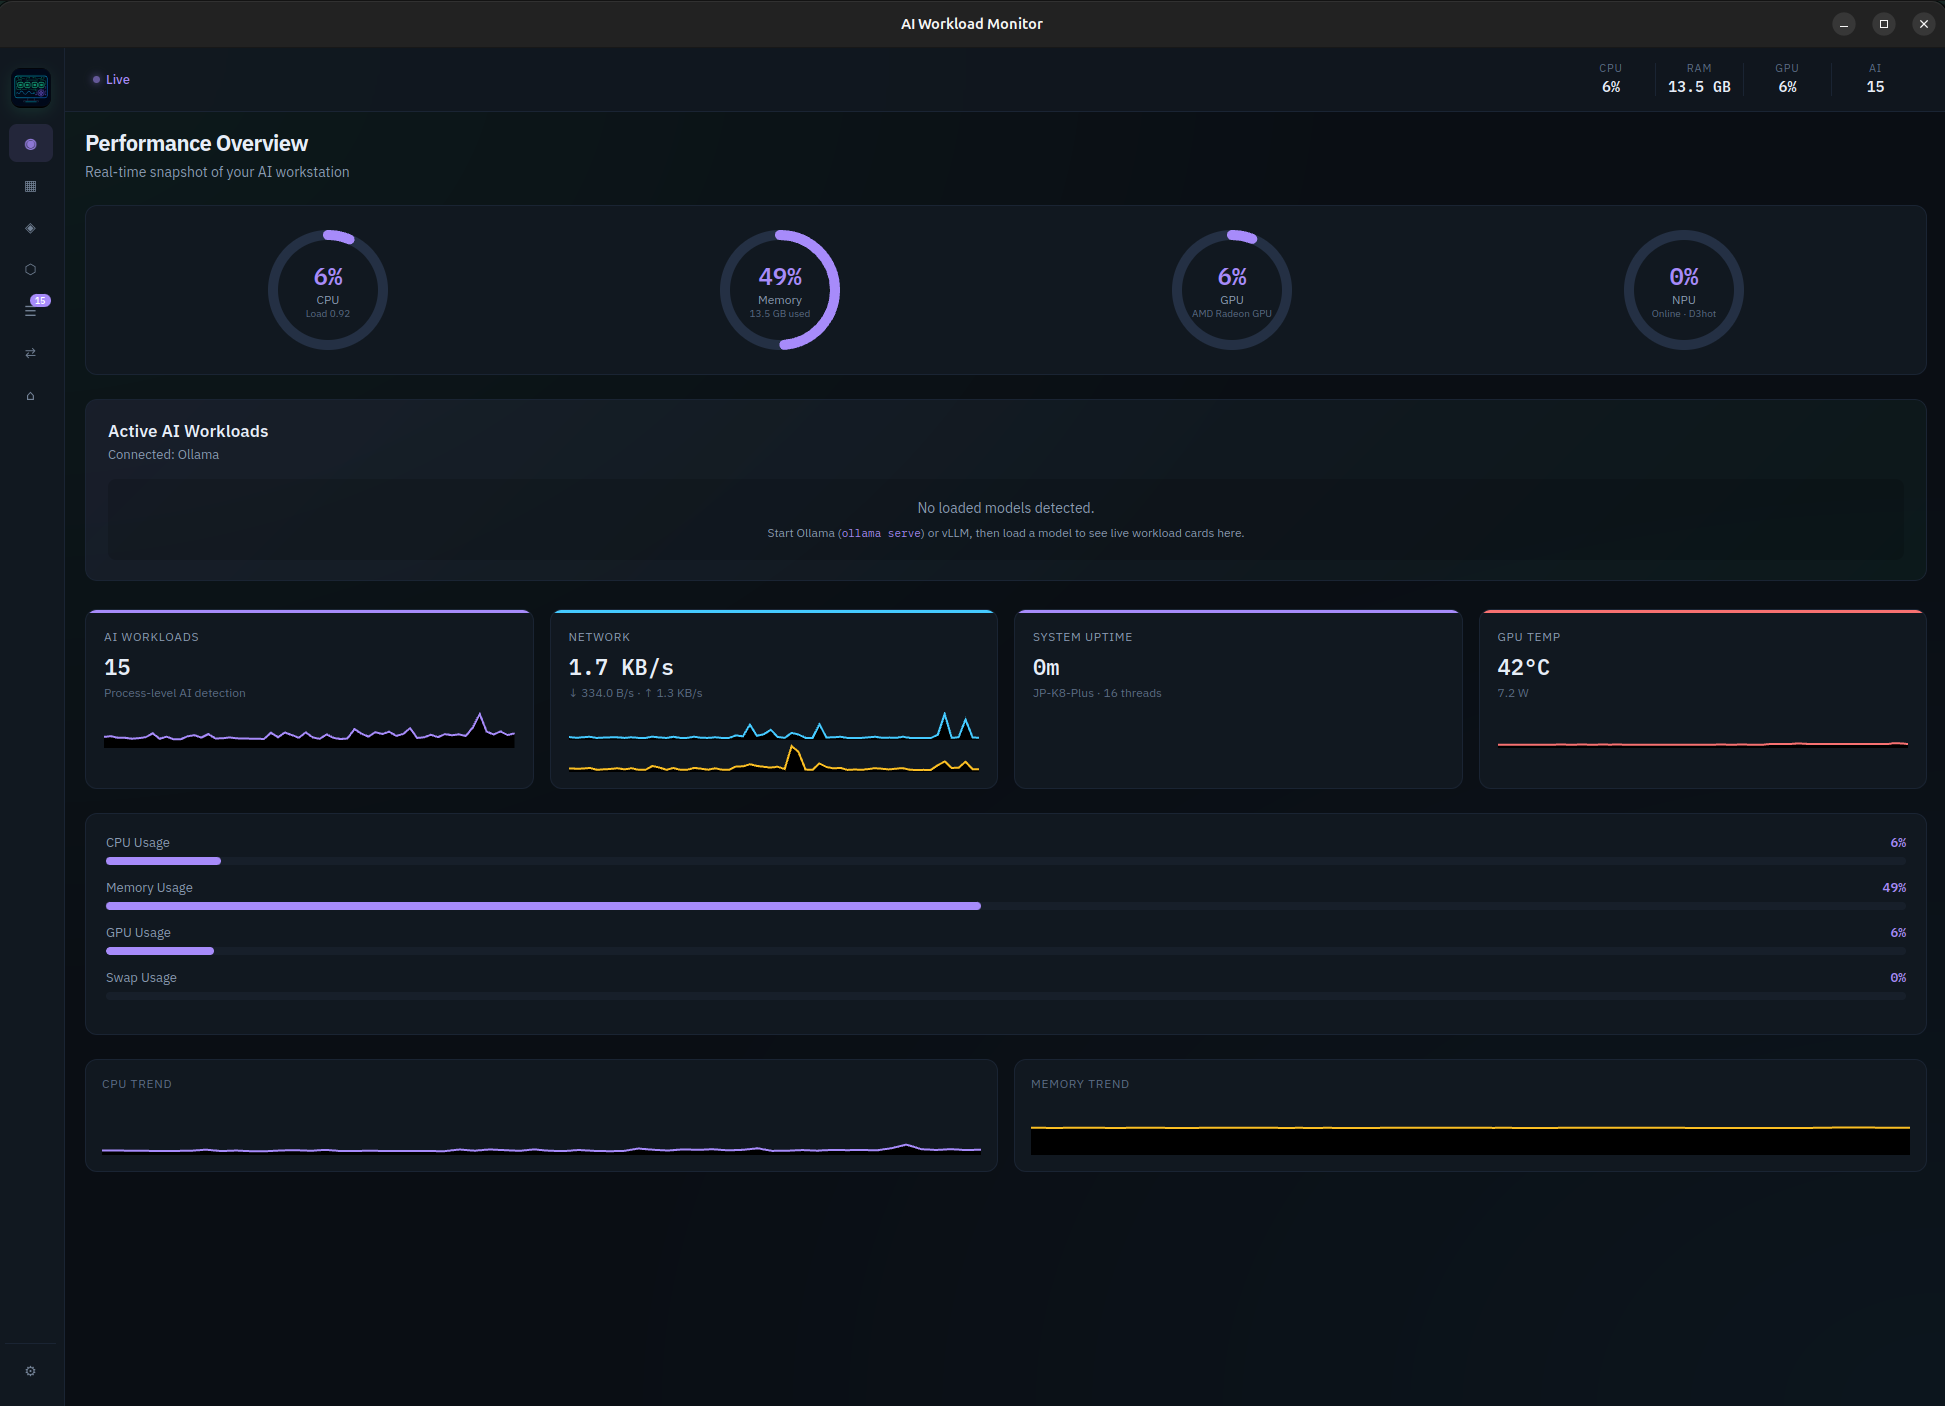
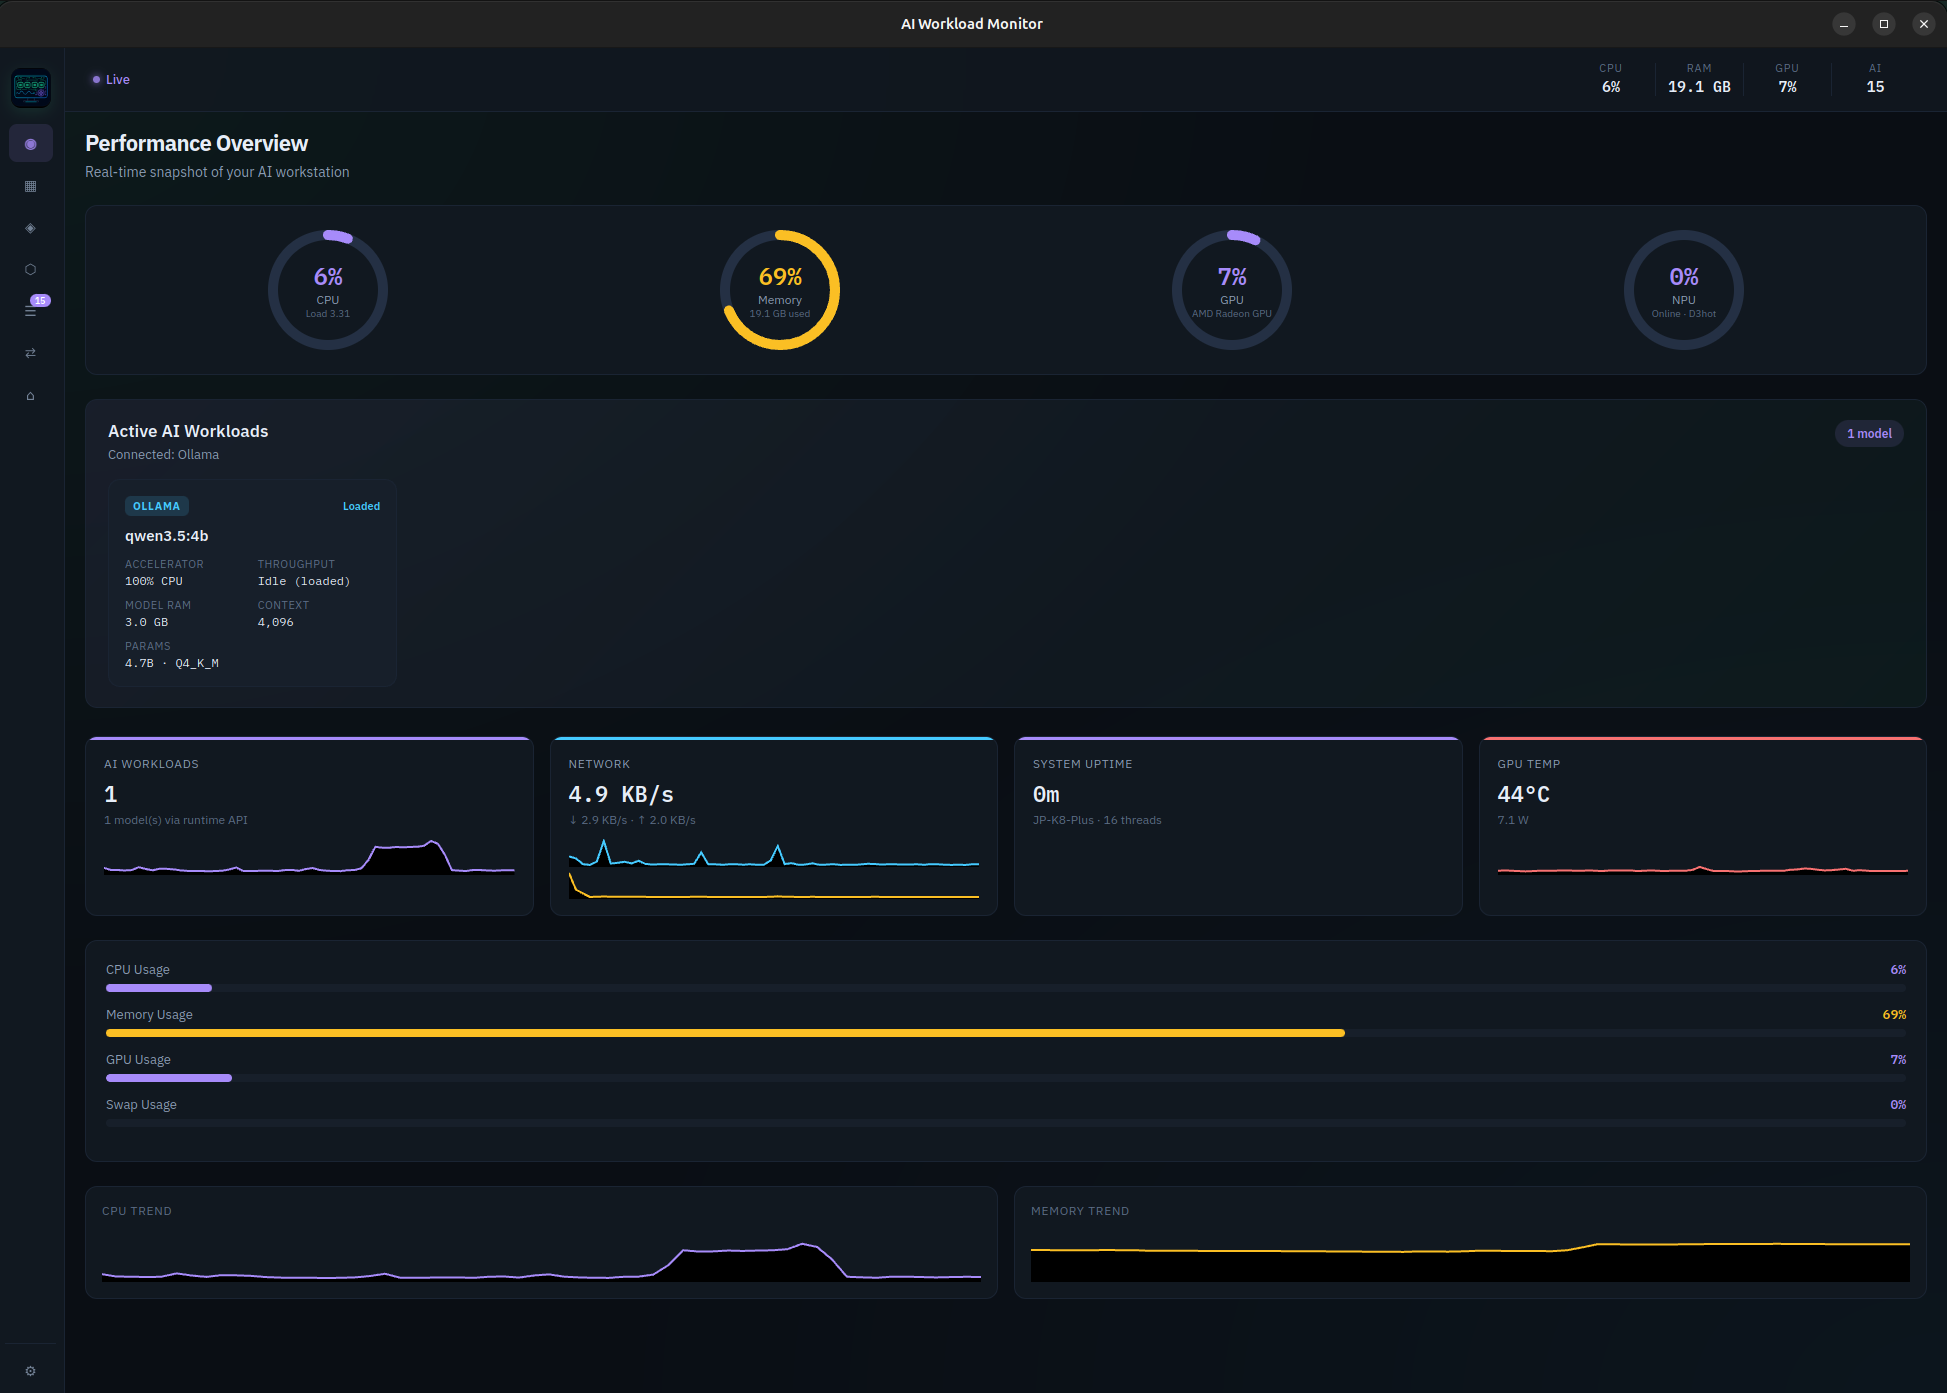
docs: add dashboard screenshots to the README
Show the overview, CPU cores, and processes views.

diff --git a/README.md b/README.md
@@ -9,7 +9,13 @@ Tauri 2 collects metrics in Rust. React renders the dashboard.
 
 By [Jayanta Paul](https://github.com/jayantapaul-18).
 
+## Screenshots
+
 ![Performance Overview](docs/performance-overview.png)
+
+![CPU cores](docs/cpu-cores.png)
+
+![Processes and active AI workloads](docs/processes.png)
 
 ## Features
 
